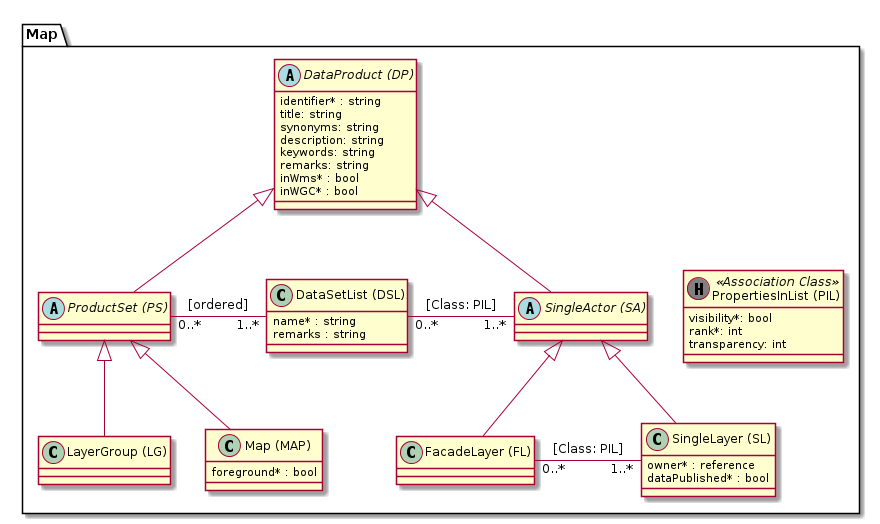
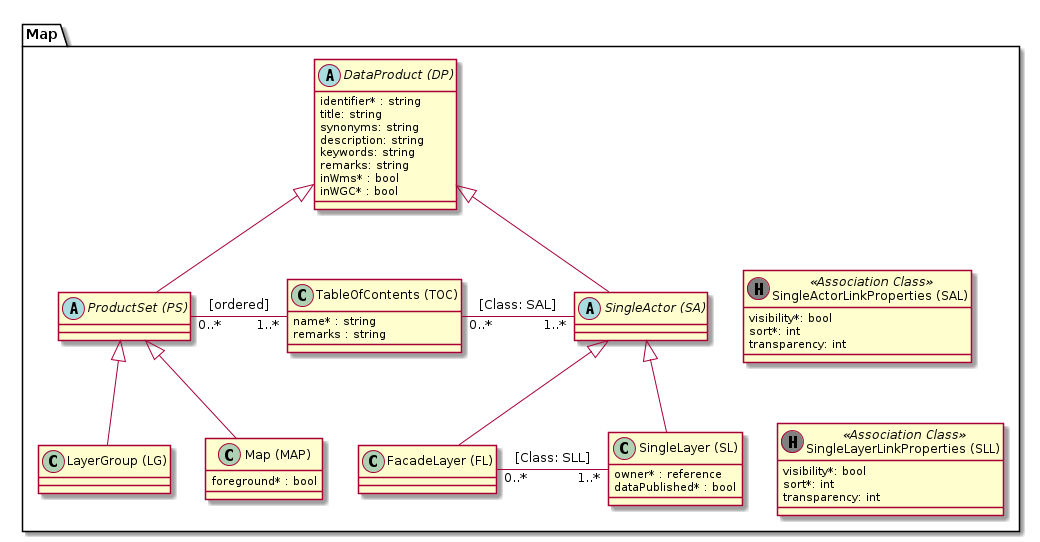
Rename DSL --> TOC, add LG and MAP to proto model V2

diff --git a/framework_protos.md b/framework_protos.md
@@ -37,6 +37,36 @@ Changes since V1:
 
 ![Model V2](puml_output/proto_model_v2.png)
 
+Cuba: Script to move identifier from SingleActor to DataProduct makes two steps:
+* Rename the column in update script --> Data is still available
+* Drop the column in specific drop script at the end
 
- 
+**update script:**
+    **alter table SIMI_SINGLE_ACTOR rename column identifier to identifier__u80113 ;**
+    alter table SIMI_SINGLE_ACTOR alter column identifier__u80113 drop not null ;
+    alter table SIMI_SINGLE_ACTOR add column DELETED_BY varchar(50) ;
+    alter table SIMI_SINGLE_ACTOR add column TITLE varchar(255) ;
+    alter table SIMI_SINGLE_ACTOR add column REMARKS text ;
+    alter table SIMI_SINGLE_ACTOR add column IN_WGC boolean ^
+    update SIMI_SINGLE_ACTOR set IN_WGC = false where IN_WGC is null ;
+    alter table SIMI_SINGLE_ACTOR alter column IN_WGC set not null ;
+    alter table SIMI_SINGLE_ACTOR add column UPDATE_TS timestamp ;
+    alter table SIMI_SINGLE_ACTOR add column DTYPE varchar(31) ;
+    alter table SIMI_SINGLE_ACTOR add column DELETE_TS timestamp ;
+    alter table SIMI_SINGLE_ACTOR add column UPDATED_BY varchar(50) ;
+    alter table SIMI_SINGLE_ACTOR add column CREATED_BY varchar(50) ;
+    alter table SIMI_SINGLE_ACTOR add column CREATE_TS timestamp ;
+    alter table SIMI_SINGLE_ACTOR add column VERSION integer ^
+    update SIMI_SINGLE_ACTOR set VERSION = 0 where VERSION is null ;
+    alter table SIMI_SINGLE_ACTOR alter column VERSION set not null ;
+    -- alter table SIMI_SINGLE_ACTOR add column IDENTIFIER varchar(255) ^
+    -- update SIMI_SINGLE_ACTOR set IDENTIFIER = <default_value> ;
+    -- alter table SIMI_SINGLE_ACTOR alter column identifier set not null ;
+    alter table SIMI_SINGLE_ACTOR add column IDENTIFIER varchar(255) ;
 
+**drop script:**
+    **alter table SIMI_SINGLE_ACTOR drop column IDENTIFIER__U80113 cascade ;**
+
+Remarks:
+* As DataProduct is rewritten to a mapped superclass, dropping the identifier and recreating is not necessary - this would need to be corrected manually.
+* Data migration code would need to be inserted manually between the update and delete scripts
